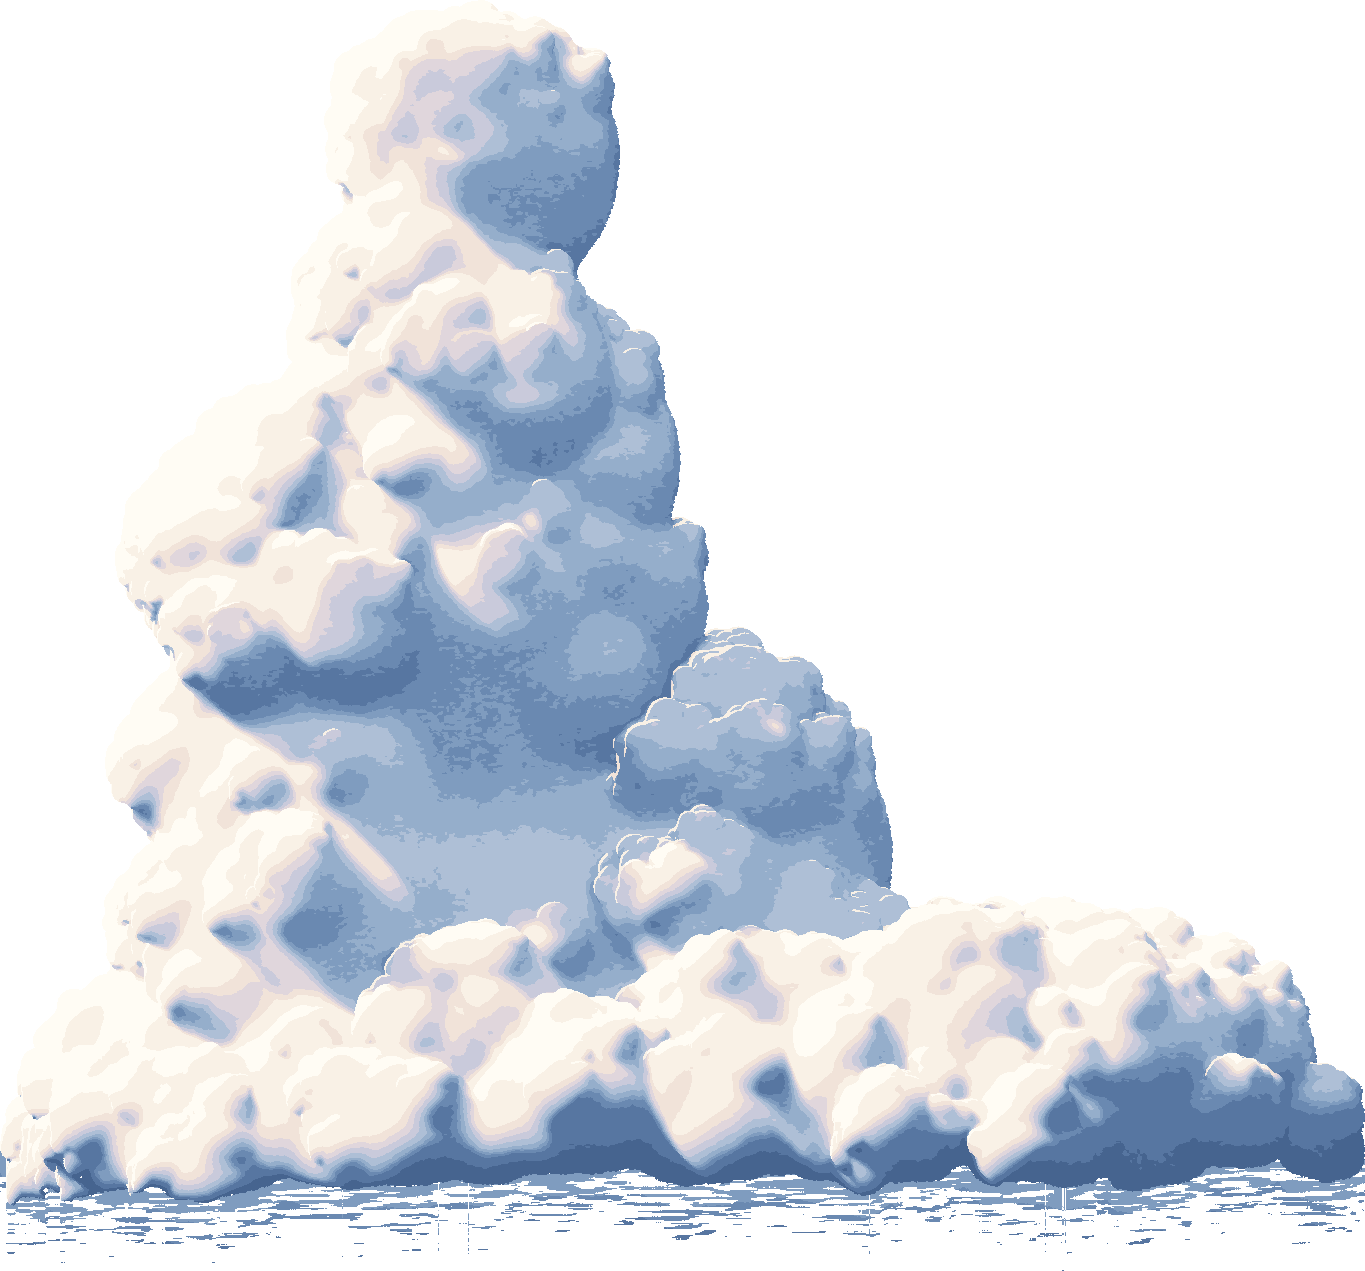
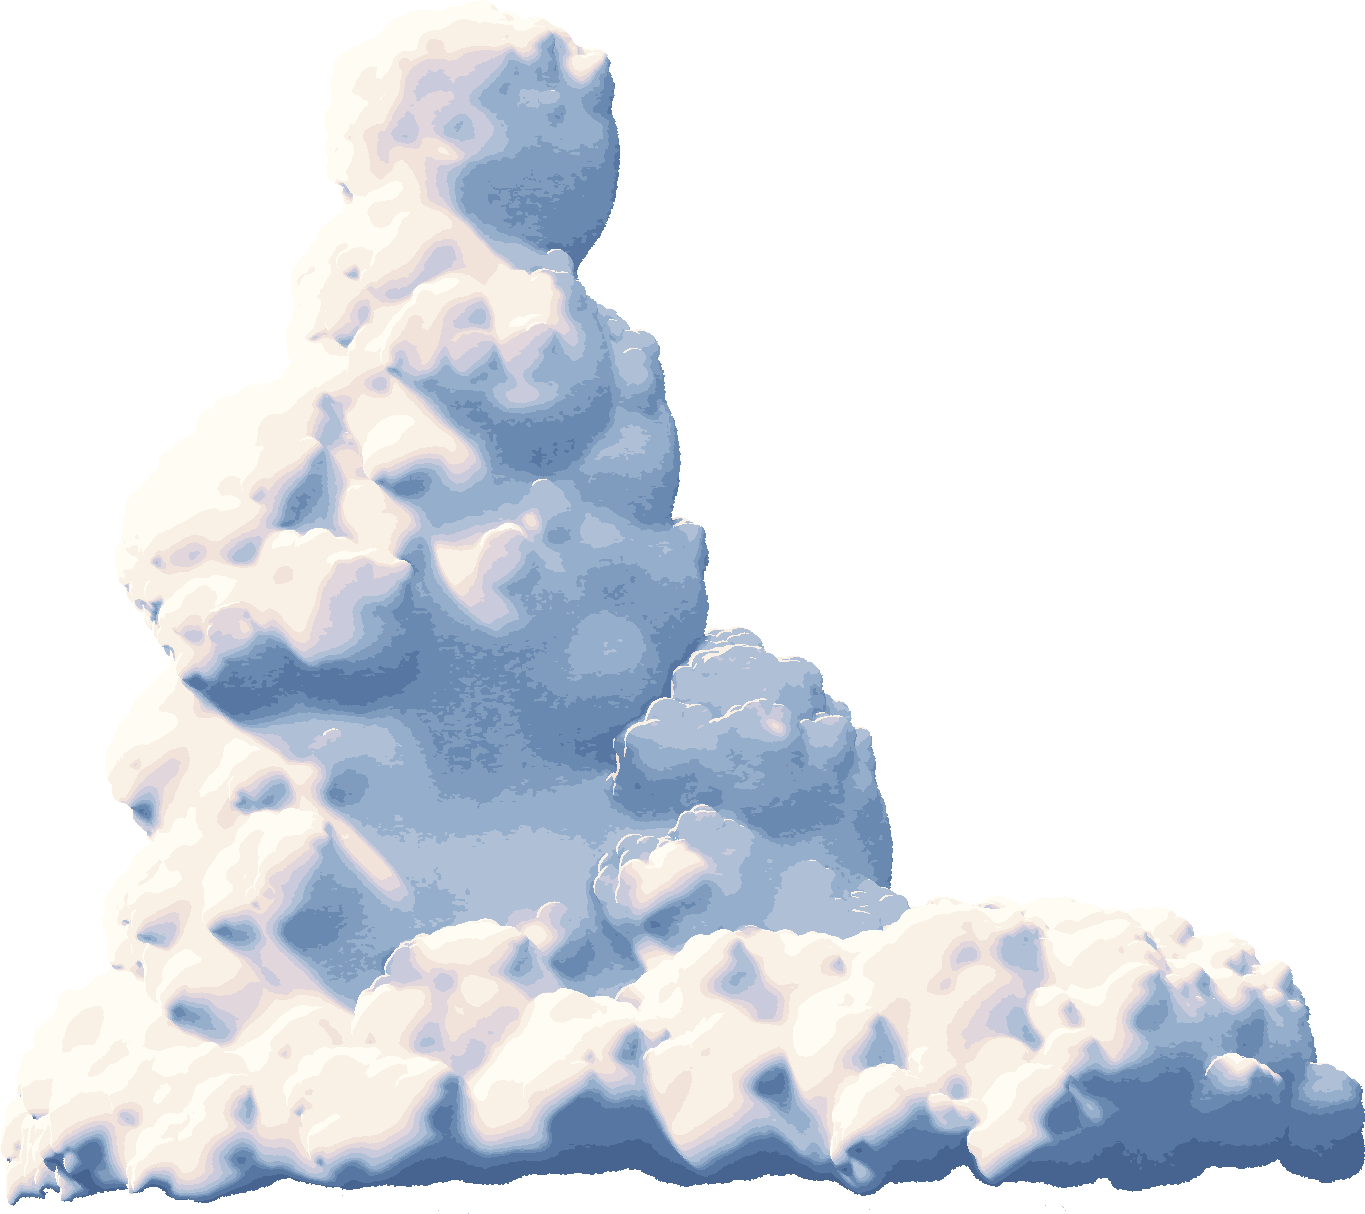
The fall's great tower without its rags (fall loop round 2 integration): its torn fringe drew as horizontal stripes ending on a vertical cut where its foot shows past the deck (the vast frame, the fog's approach, the break-out)
cu-tower-a rebuilt with tools/clouds/build.py (rags off for this cloud only); its body is unchanged above the base,
its anchor too (h 1271 -> 1214 at level 1). The base is now the library's wavy, torn floor in the belly's cool steps.

Changed region(s): [[0.0, 0.0305, 1.0, 1.0], [0.4308, 0.4876, 0.4615, 0.5181]]

diff --git a/src/tesu/art/library/opening/cloud-library.ts b/src/tesu/art/library/opening/cloud-library.ts
@@ -18,7 +18,7 @@ export interface CloudEntry {
 export const CLOUD_LIGHT = {"sun": [-0.672, -0.733, -0.102], "from": "upper left", "flip": false} as const;
 
 export const CLOUDS: Readonly<Record<string, CloudEntry>> = {
-  "cu-tower-a": { what: "great tower", w: 1365, h: 1271, ax: 557.0, ay: 1199.0, sets: [{ level: 1.0, base: "/tesu/clouds/cu-tower-a/l100/" }, { level: 0.5, base: "/tesu/clouds/cu-tower-a/l50/" }, { level: 0.25, base: "/tesu/clouds/cu-tower-a/l25/" }] },
+  "cu-tower-a": { what: "great tower", w: 1365, h: 1214, ax: 557.0, ay: 1199.0, sets: [{ level: 1.0, base: "/tesu/clouds/cu-tower-a/l100/" }, { level: 0.5, base: "/tesu/clouds/cu-tower-a/l50/" }, { level: 0.25, base: "/tesu/clouds/cu-tower-a/l25/" }] },
   "cu-tower-b": { what: "tower", w: 1019, h: 999, ax: 418.0, ay: 931.0, sets: [{ level: 1.0, base: "/tesu/clouds/cu-tower-b/l100/" }, { level: 0.5, base: "/tesu/clouds/cu-tower-b/l50/" }, { level: 0.25, base: "/tesu/clouds/cu-tower-b/l25/" }] },
   "cu-heap-a": { what: "heap", w: 1137, h: 496, ax: 521.0, ay: 475.0, sets: [{ level: 1.0, base: "/tesu/clouds/cu-heap-a/l100/" }, { level: 0.5, base: "/tesu/clouds/cu-heap-a/l50/" }, { level: 0.25, base: "/tesu/clouds/cu-heap-a/l25/" }] },
   "cu-heap-b": { what: "broad heap", w: 1540, h: 469, ax: 703.0, ay: 443.0, sets: [{ level: 1.0, base: "/tesu/clouds/cu-heap-b/l100/" }, { level: 0.5, base: "/tesu/clouds/cu-heap-b/l50/" }, { level: 0.25, base: "/tesu/clouds/cu-heap-b/l25/" }] },

diff --git a/tools/clouds/build.py b/tools/clouds/build.py
@@ -39,7 +39,9 @@ DECKS = [0.05, 0.07, 0.05, 0.06, 0.08, 0.12, 0.15, 0.15, 0.13, 0.08, 0.06]
 # id: (kind, seed, form args, look, share, far, what it is)
 LIB = {
     # towers: the sky ref's great cumulus (the vast frame's hero, the far towers past the deck)
-    "cu-tower-a": ("heap", 31, dict(w=780, h=1150, turrets=3, lead=-0.3, belly=0.24, lean=-0.04), LOOK, LIT, 0.0, "great tower"),
+    # (round 2 integration: the great tower takes no rags. Its torn fringe drew as horizontal stripes ending on a
+    # vertical cut under the deck's chunks (the vast frame, the break-out); its wavy, torn floor alone reads as a base)
+    "cu-tower-a": ("heap", 31, dict(w=780, h=1150, turrets=3, lead=-0.3, belly=0.24, lean=-0.04), dict(LOOK, rags=False), LIT, 0.0, "great tower"),
     "cu-tower-b": ("heap", 44, dict(w=640, h=860, turrets=3, lead=0.1, belly=0.28, lean=-0.03), LOOK, LIT, 0.0, "tower"),
     # heaps: the middle sizes
     "cu-heap-a": ("heap", 8, dict(w=900, h=420, front_cells=0.6, cell_space=0.75), LOOK, LIT, 0.0, "heap"),
